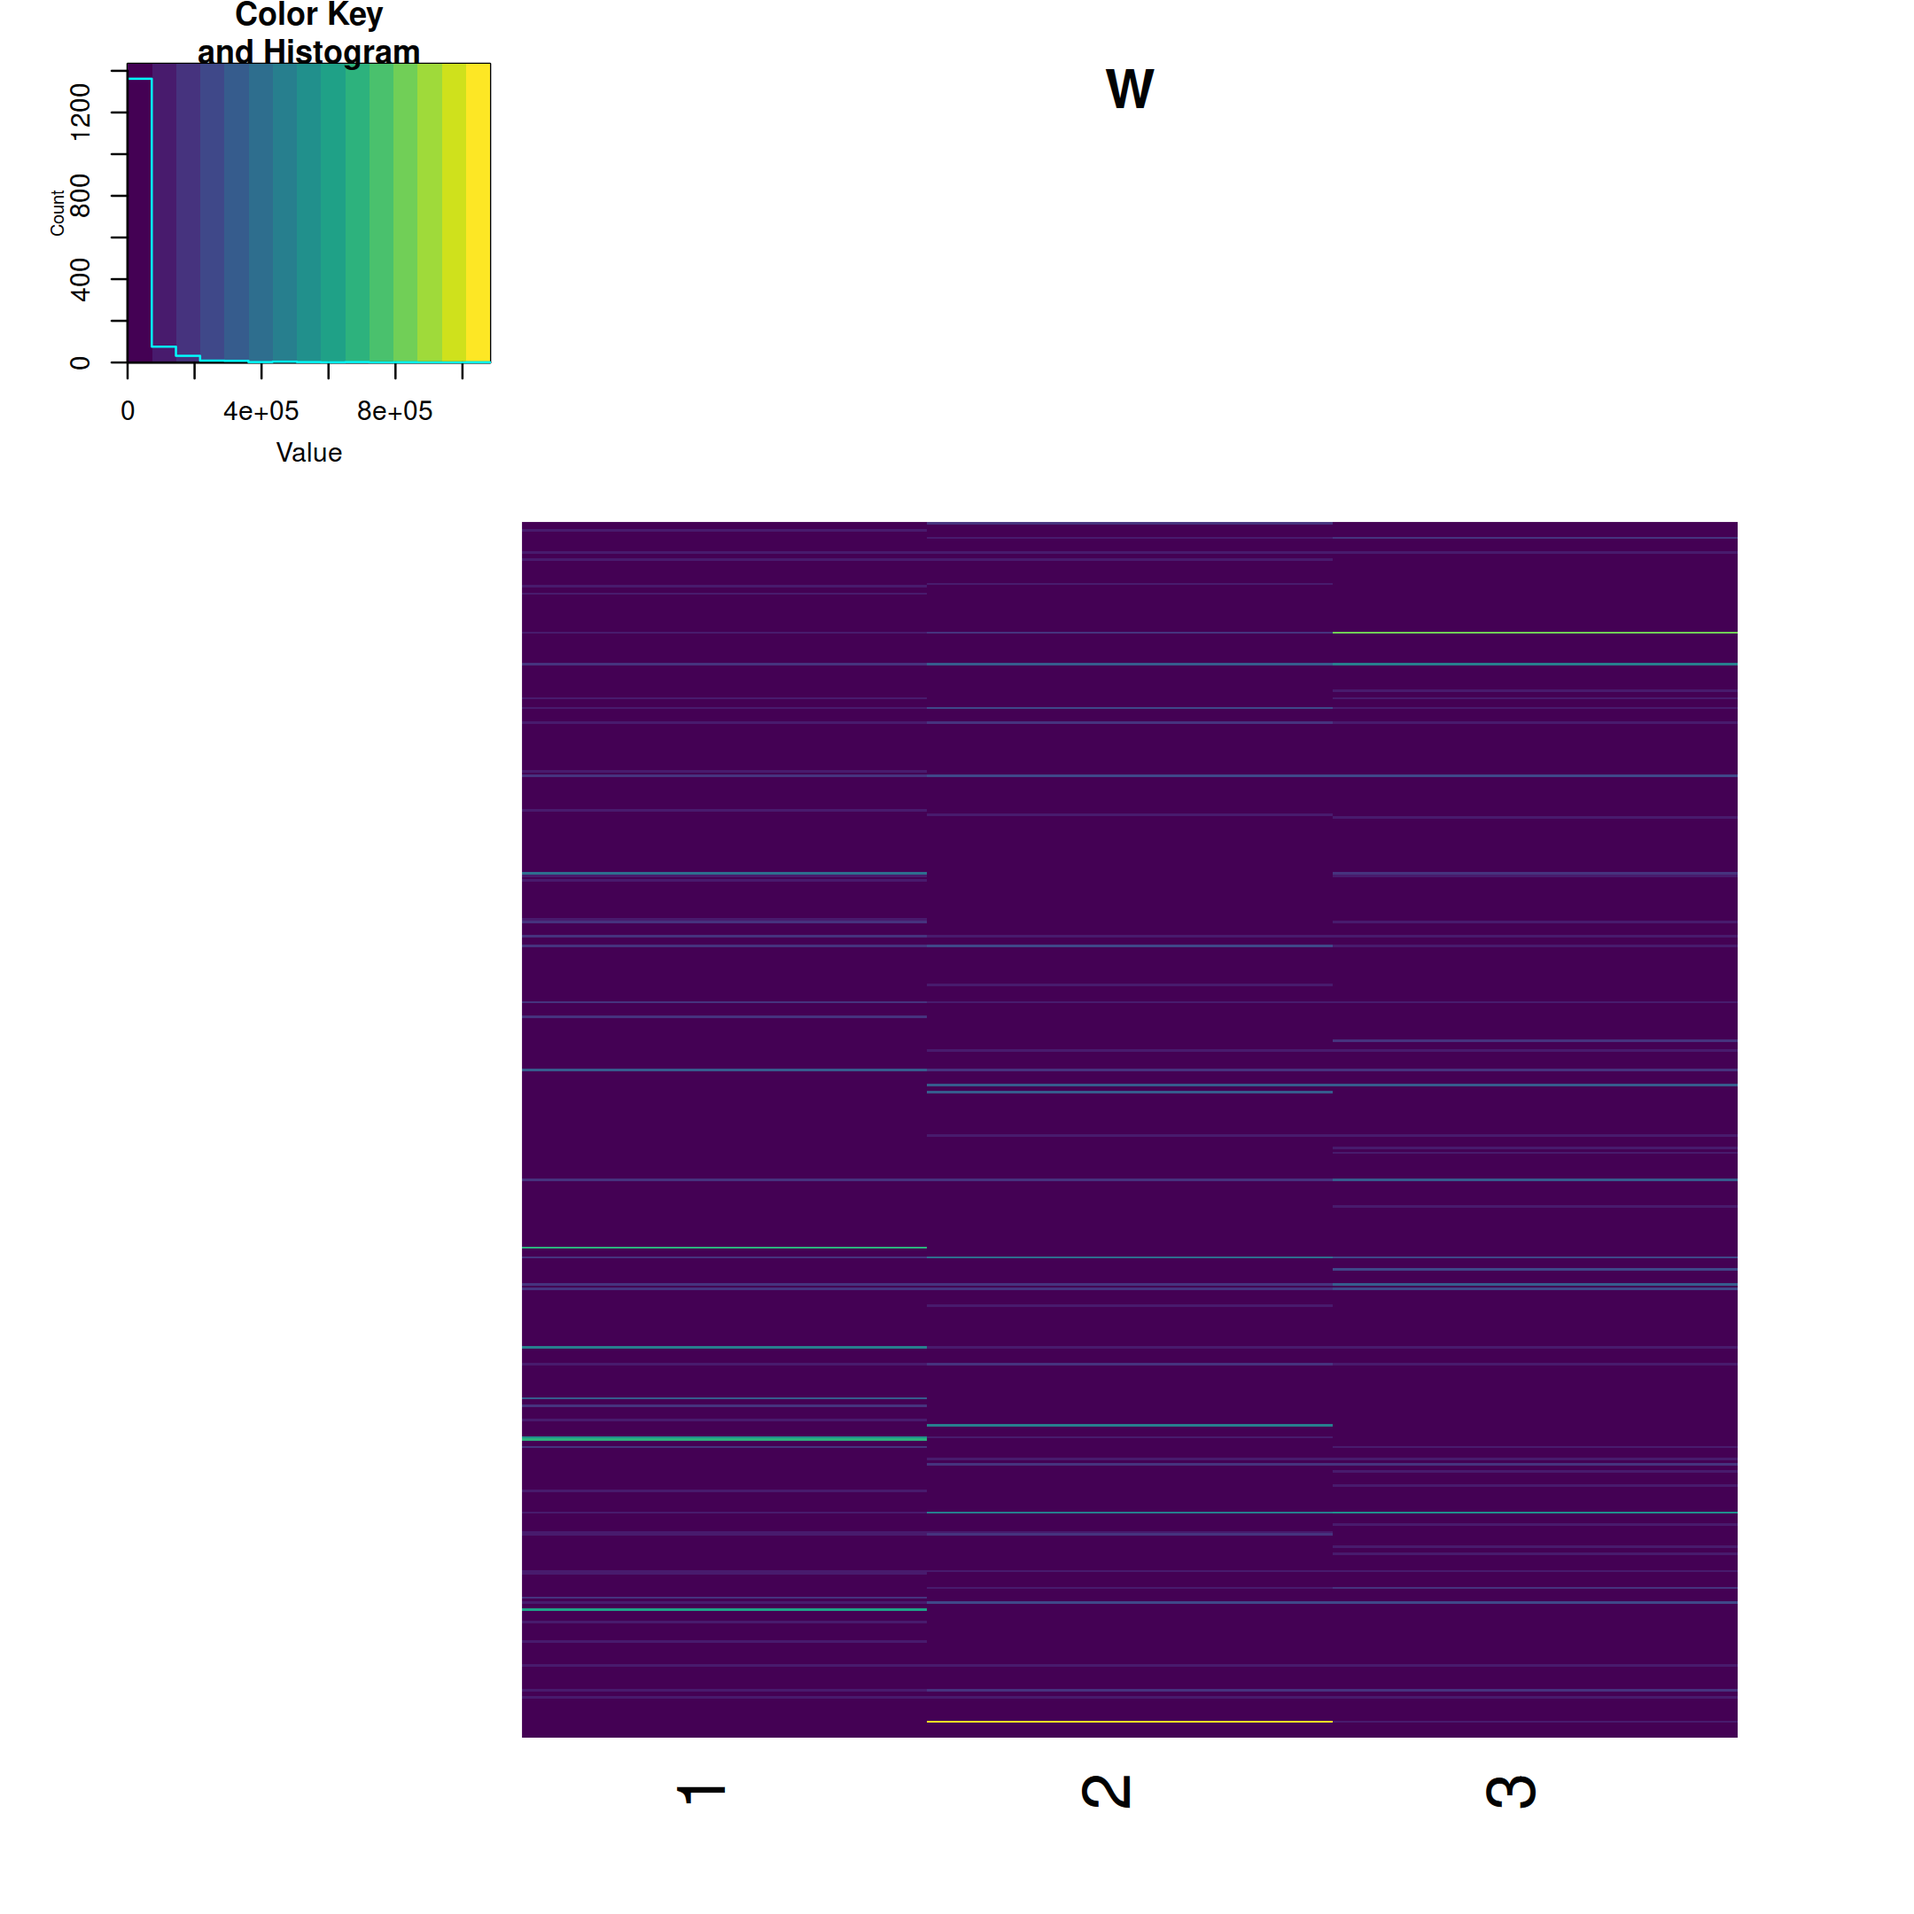
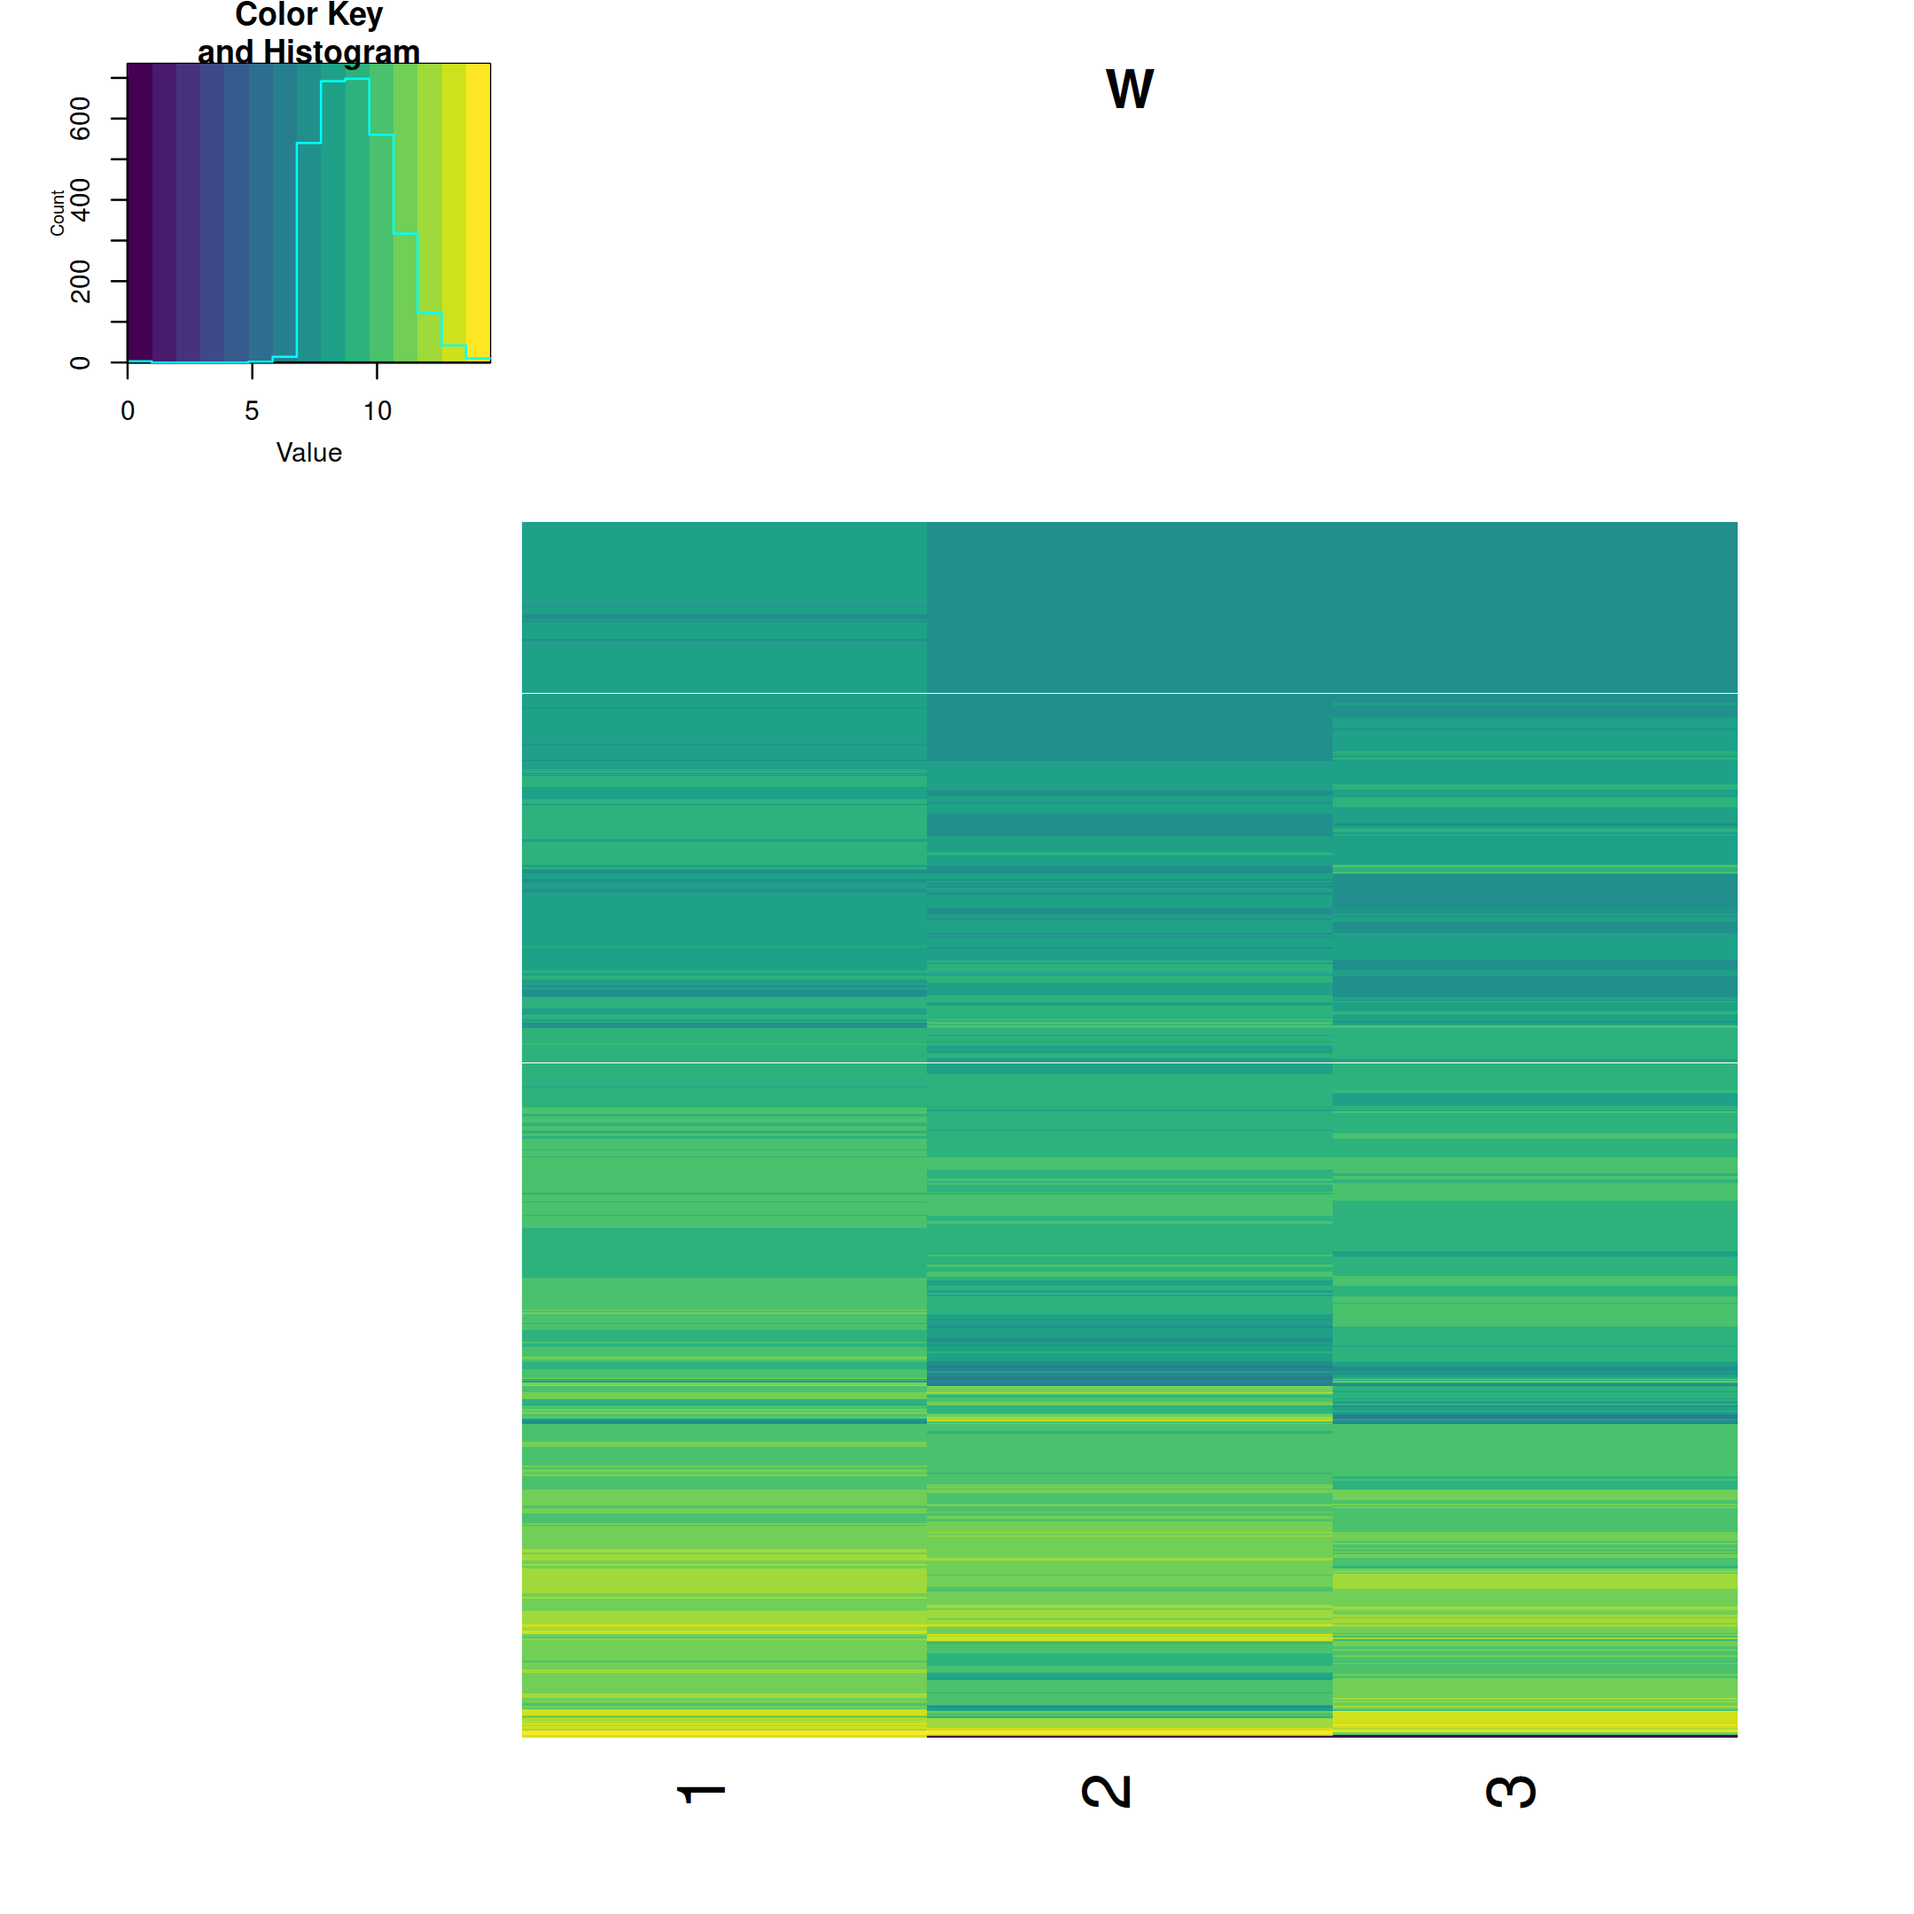
Added plots of NMF metagenes

diff --git a/07-linear-algebra-review-vii/README.md b/07-linear-algebra-review-vii/README.md
@@ -371,6 +371,37 @@ To see which algorithms are available, you can use the `nmfAlgorithm()` function
 
 ``` r
 library('NMF')
+```
+
+    ## Loading required package: pkgmaker
+
+    ## Loading required package: registry
+
+    ## 
+    ## Attaching package: 'pkgmaker'
+
+    ## The following object is masked from 'package:base':
+    ## 
+    ##     isNamespaceLoaded
+
+    ## Loading required package: rngtools
+
+    ## Loading required package: cluster
+
+    ## NMF - BioConductor layer [OK] | Shared memory capabilities [NO: bigmemory] | Cores 11/12
+
+    ##   To enable shared memory capabilities, try: install.extras('
+    ## NMF
+    ## ')
+
+    ## 
+    ## Attaching package: 'NMF'
+
+    ## The following object is masked from 'package:rmarkdown':
+    ## 
+    ##     run
+
+``` r
 nmfAlgorithm()
 ```
 
@@ -491,13 +522,13 @@ result
     ##  # Details:
     ##   algorithm:  brunet 
     ##   seed:  random 
-    ##   RNG: 403L, 198L, ..., -1693668582L [4d29980c11159d0623bf3188d07940c3]
+    ##   RNG: 403L, 2L, ..., -312440522L [7a89115b2dbe93aaef46012b2c40ae55]
     ##   distance metric:  'KL' 
-    ##   residuals:  13807040 
-    ##   Iterations: 490 
+    ##   residuals:  13806607 
+    ##   Iterations: 470 
     ##   Timing:
     ##      user  system elapsed 
-    ##     1.690   0.000   1.689
+    ##     1.724   0.000   1.725
 
 Use `fit()` to get the fitted model:
 
@@ -509,20 +540,6 @@ fit(result)
     ## features: 5000 
     ## basis/rank: 3 
     ## samples: 38
-
-and `fitted()` to get the approximated version of *V*:
-
-``` r
-v0 <- fitted(result)
-```
-
-Which is just the product *W**H*:
-
-``` r
-all(v0 == w %*% h)
-```
-
-    ## [1] FALSE
 
 Next, we can use `basis()` and `coef()` to get *W* and *H*, respectively:
 
@@ -540,20 +557,65 @@ dim(h)
 
     ## [1]  3 38
 
-Let's visualize each of these:
+The `fitted()` function can be used to get the approximated version of *V*:
+
+``` r
+v0 <- fitted(result)
+```
+
+Which is just the product *W**H*:
+
+``` r
+all(v0 == w %*% h)
+```
+
+    ## [1] TRUE
+
+Let's visualize *W* and *H*.
+
+First, it's worth noting that *W* is quite sparse:
+
+``` r
+plot(density(w))
+```
+
+<img src="img/w_density_plot-1.png" width="1080" />
+
+However, the values aren't exactly near zero:
+
+``` r
+quantile(w)
+```
+
+    ##           0%          25%          50%          75%         100% 
+    ## 2.220446e-16 2.858794e+03 8.711103e+03 2.569063e+04 2.047005e+06
 
 ``` r
 library('gplots')
+```
+
+    ## 
+    ## Attaching package: 'gplots'
+
+    ## The following object is masked from 'package:stats':
+    ## 
+    ##     lowess
+
+``` r
 library('viridis')
 
-# plot w (subsample rows to speed up)
-# allowing rows to be reordered to show major differences
-heatmap.2(w[sample(1:nrow(w), 500),], Rowv=FALSE, labRow=FALSE,
+# plot w
+# data is subsampled to speed things up; 
+# rows are allowed to reorder to help highlight differences between metagenes
+# and data is logged to improve contrast
+heatmap.2(log1p(w[sample(1:nrow(w), 1000),]), Colv=FALSE, labRow=FALSE,
           dendrogram="none", main="W", col=viridis, trace="none",
           margins=c(5, 5))
 ```
 
 <img src="img/w-1.png" width="1080" />
+
+Next, let's plot H:
 
 ``` r
 # plot h
@@ -571,40 +633,69 @@ nmf_clusters
 ```
 
     ## ALL_19769_B-cell ALL_23953_B-cell ALL_28373_B-cell  ALL_9335_B-cell 
-    ##                3                3                3                3 
+    ##                1                1                1                1 
     ##  ALL_9692_B-cell ALL_14749_B-cell ALL_17281_B-cell ALL_19183_B-cell 
-    ##                3                3                3                3 
+    ##                1                2                1                1 
     ## ALL_20414_B-cell ALL_21302_B-cell   ALL_549_B-cell ALL_17929_B-cell 
-    ##                3                2                3                3 
+    ##                1                3                1                1 
     ## ALL_20185_B-cell ALL_11103_B-cell ALL_18239_B-cell  ALL_5982_B-cell 
-    ##                3                3                3                3 
+    ##                1                1                1                1 
     ##  ALL_7092_B-cell   ALL_R11_B-cell   ALL_R23_B-cell ALL_16415_T-cell 
-    ##                3                3                3                2 
+    ##                1                1                1                3 
     ## ALL_19881_T-cell  ALL_9186_T-cell  ALL_9723_T-cell ALL_17269_T-cell 
-    ##                2                2                2                2 
+    ##                3                3                3                3 
     ## ALL_14402_T-cell ALL_17638_T-cell ALL_22474_T-cell           AML_12 
-    ##                2                2                2                1 
+    ##                3                3                3                2 
     ##           AML_13           AML_14           AML_16           AML_20 
-    ##                1                1                1                1 
+    ##                2                2                2                2 
     ##            AML_1            AML_2            AML_3            AML_5 
-    ##                1                1                1                1 
+    ##                2                2                2                2 
     ##            AML_6            AML_7 
-    ##                1                1
+    ##                2                2
 
-To see how this compares with the PCA assignments, we can redo the PCA plot, but coloring samples according to their NMF clustering:
+Just looking at the plot of *H*, we can already see the major clusters quite readily. Let's see how things look when we do a scatter plot of the rows of *H* using two of the three columns (metagenes):
 
 ``` r
-df$cell <- factor(nmf_clusters)
+df <- data.frame(t(h))
+colnames(df) <- paste0('metagene', 1:3)
 
-ggplot(df, aes(pc1, pc2, color=cell, shape=type)) +
+df <- cbind(df, sample_id=colnames(esGolub), cluster=as.factor(nmf_clusters),
+            type=pData(esGolub)$ALL.AML)
+
+# metagene 1 vs. 2
+ggplot(df, aes(metagene1, metagene2, color=cluster, shape=type)) +
     geom_point(stat="identity",size=5) +
     geom_text(aes(label=sample_id), angle=45, size=4,vjust=2) +
-    xlab('PC1') + ylab('PC2') +
-    ggtitle("PCA: esGolub") +
+    xlab('Metagene 1') + ylab('Metagene 2') +
+    ggtitle("NMF: esGolub (metagenes 1 vs. 2)") +
     theme(axis.ticks=element_blank(), axis.text.x=element_text(angle=-90))
 ```
 
-<img src="img/pca_nmf_clusters-1.png" width="1080" />
+<img src="img/nmf_scatter_plot-1.png" width="1080" />
+
+``` r
+# metagene 1 vs. 3
+ggplot(df, aes(metagene1, metagene3, color=cluster, shape=type)) +
+    geom_point(stat="identity",size=5) +
+    geom_text(aes(label=sample_id), angle=45, size=4,vjust=2) +
+    xlab('Metagene 1') + ylab('Metagene 3') +
+    ggtitle("NMF: esGolub (metagenes 1 vs. 3)") +
+    theme(axis.ticks=element_blank(), axis.text.x=element_text(angle=-90))
+```
+
+<img src="img/nmf_scatter_plot-2.png" width="1080" />
+
+``` r
+# metagene 2 vs. 3
+ggplot(df, aes(metagene2, metagene3, color=cluster, shape=type)) +
+    geom_point(stat="identity",size=5) +
+    geom_text(aes(label=sample_id), angle=45, size=4,vjust=2) +
+    xlab('Metagene 2') + ylab('Metagene 3') +
+    ggtitle("NMF: esGolub (metagenes 2 vs. 3)") +
+    theme(axis.ticks=element_blank(), axis.text.x=element_text(angle=-90))
+```
+
+<img src="img/nmf_scatter_plot-3.png" width="1080" />
 
 A couple of the ALL B-cell samples are mislabeled, but all-in-all, not bad!
 
